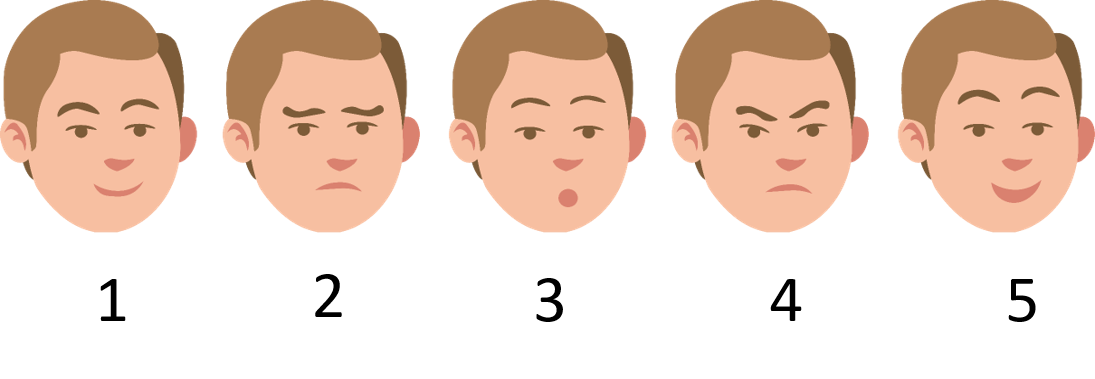
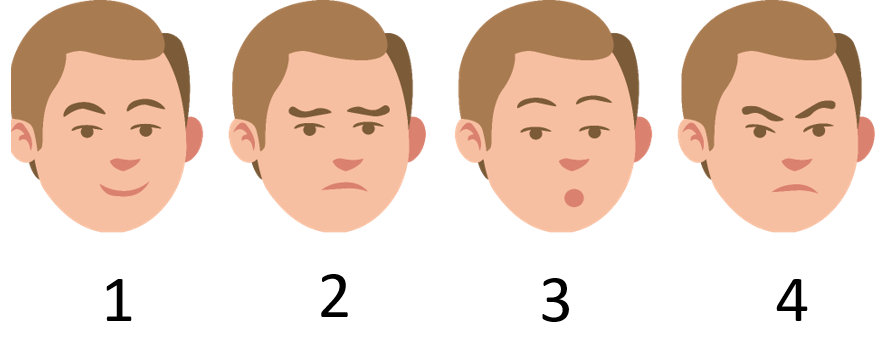
izmene

diff --git a/_sources/3_Algoritamski nacin razmisljanja/327_Algoritam.rst b/_sources/3_Algoritamski nacin razmisljanja/327_Algoritam.rst
@@ -12,6 +12,19 @@
 
 |
 
+
+
+.. mchoice:: mchoicezubi
+    :hide_labels:
+    :answer_a: Узми четкицу, стави пасту на четкицу, опери предње зубе, опери зубе позади, испљуни пасту, пусти воду, испери уста, испери четкицу, затвори воду, врати четкицу на месту, узми пешкир, обриши уста пешкиром да их осушиш, врати пешкир
+    :answer_b: Узми четкицу, опери предње зубе, стави пасту на четкицу, опери зубе позади, испљуни пасту, пусти воду, испери четкицу, узми пешкир, затвори воду, врати четкицу на месту, обриши уста пешкиром да их осушиш, врати пешкир, испери уста
+    :feedback_a: Одговор је тачан.
+    :feedback_b: Одговор није тачан.
+    :correct: a
+
+    Означи тачан редослед корака како дете пере зубе. Означи кружић са тачним распоредом корака којим се показује како се перу зуби.
+
+
 Ако било који проблем поделиш на кораке, онда кажемо да размишљаш алгоритамски. 
 **Алгоритам** је низ корака помоћу којих се описује неки задатак. Тачније, то је упутство 
 помоћу кога људи или машине могу да успешно решавају и обављају неки посао. 
@@ -68,6 +81,19 @@
  
  Опиши поступак којим се особа вози лифтом.
 
+Поређај кораке у прави редослед којим се описује поступак како се користи лифт.
+
+.. dragndrop:: dndlift
+        :feedback: Покушајте поново.
+        :match_1: 1 ||| Притисни дугме да позовеш лифт.
+        :match_2: 2 ||| Отвори врата од лифта.
+        :match_3: 3 ||| Уђи у лифт.
+        :match_4: 4 ||| Затвори врата за собом.
+        :match_5: 5 ||| Притисни тастер за спрат на који идеш.
+        :match_6: 6 ||| Лифт се зауставља на одабраном спрату.
+        :match_7: 7 ||| Отвори врата од лифта..
+        :match_8: 8 ||| Изађи из лифта.
+        :match_9: 9 ||| Затвори врата за собом.
 
 Испод су наведени кораци којима ти се дају инструкције за вожњу лифтом. Поређани су редом. 
 

diff --git a/_sources/1_Digitalno drustvo/110_Komunikacija je prenosenje poruka.rst b/_sources/1_Digitalno drustvo/110_Komunikacija je prenosenje poruka.rst
@@ -47,32 +47,14 @@
             :width: 500px
             :align: center
 
-    .. dragndrop:: d110а
+    .. dragndrop:: d110а-new
         :feedback: Покушајте поново.
         :match_1: 1 ||| срећан
         :match_2: 2 ||| тужан
         :match_3: 3 ||| зачуђен
         :match_4: 4 ||| бесан
-        :match_5: 5 ||| изненађен
 
 
-.. quizq::
-   
-    Слика којом је представљено неко осећање обележена је бројем. Повежи одговарајућа осећања са бројем којим је приказан израз лица особе.
-
-    |
-
-    .. image:: ../../_images/emocije2.png
-            :width: 500px
-            :align: center
-
-    .. dragndrop:: d110b
-        :feedback: Покушајте поново.
-        :match_1: 1 ||| уплашен
-        :match_2: 2 ||| разочаран
-        :match_3: 3 ||| заљубљен
-        :match_4: 4 ||| постиђен
-        :match_5: 5 ||| забринут
 
 Начин на који људи комуницирају мењао се из дана у дан.
 
